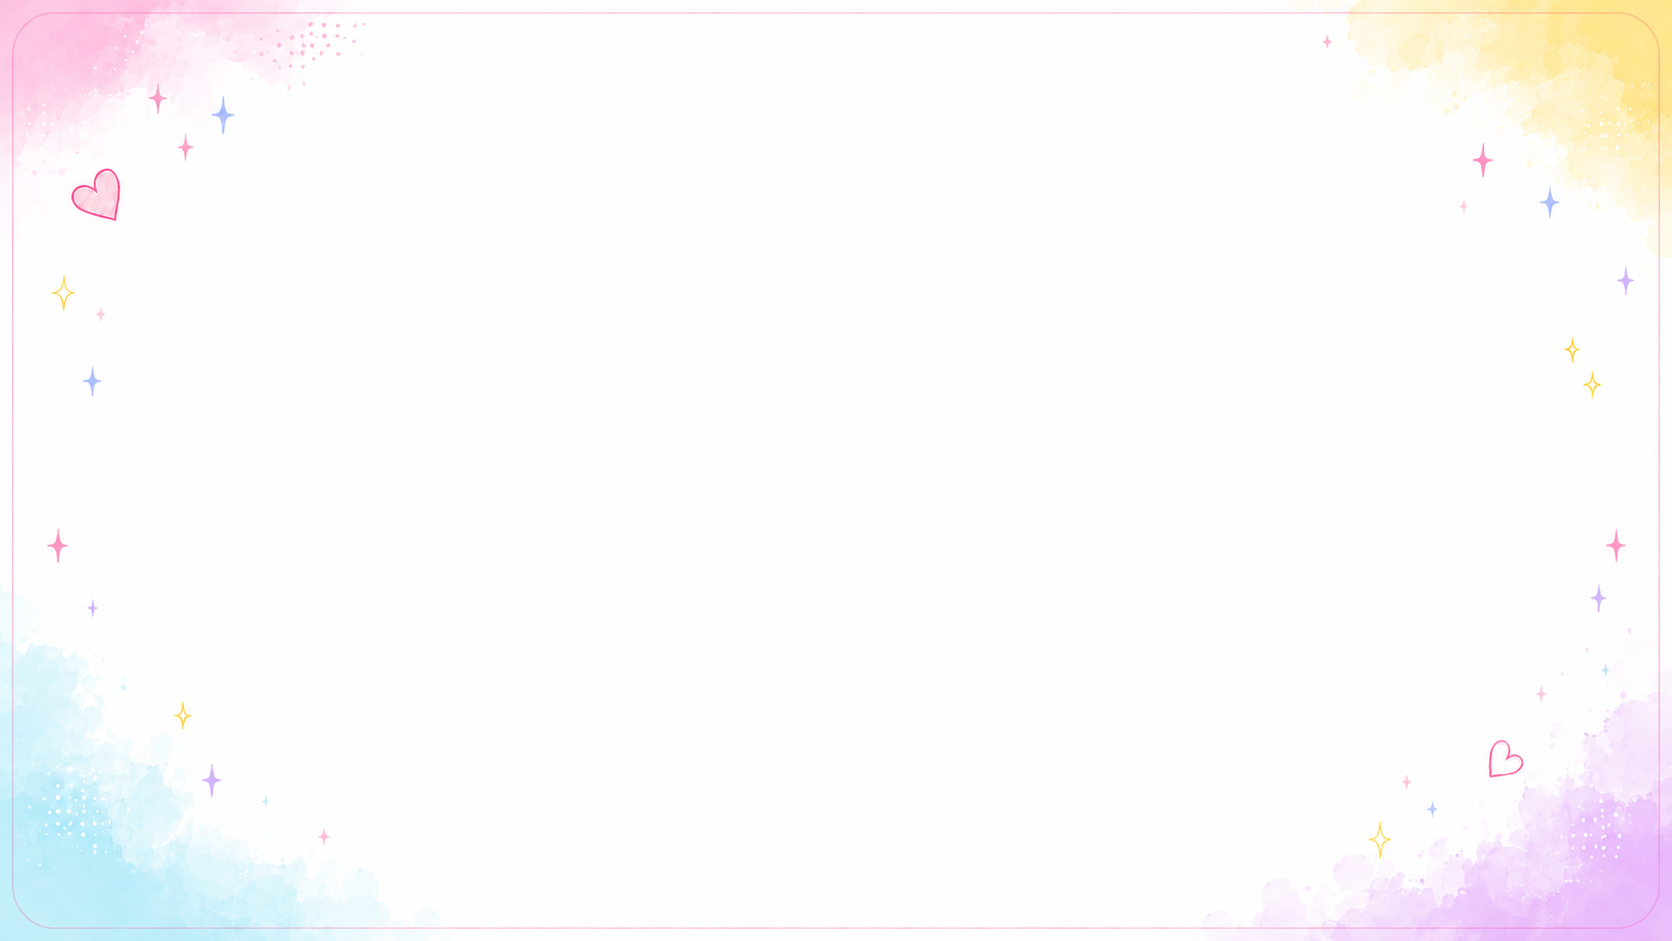
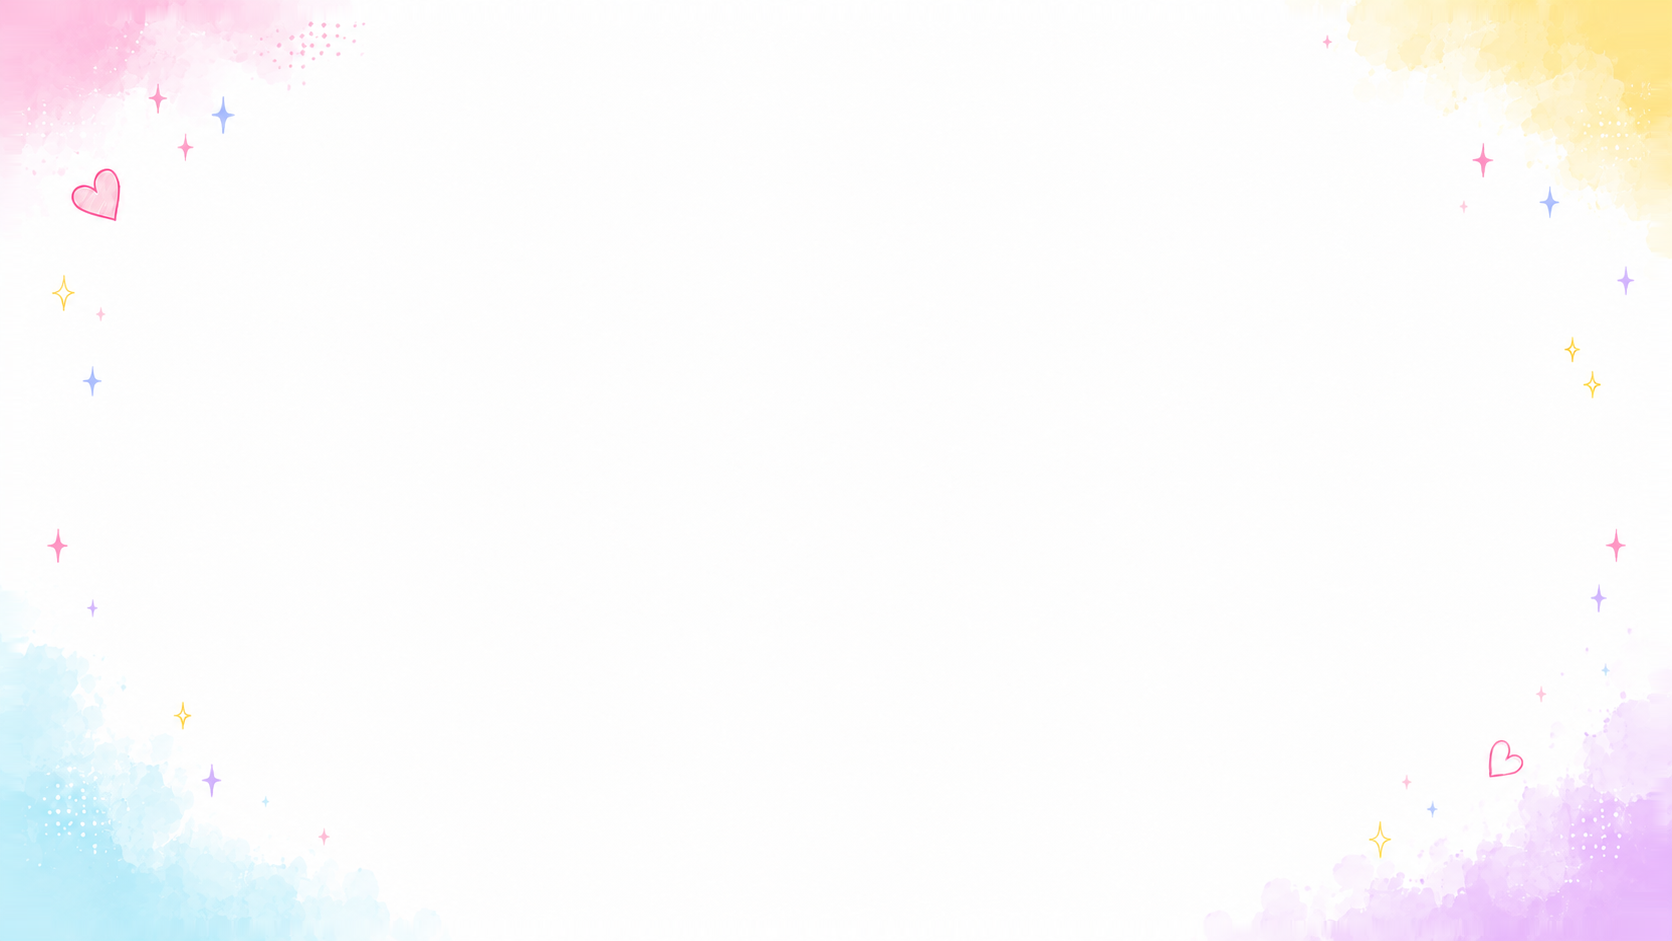
微修正

diff --git a/wp-content/themes/fee/template-parts/section-steps.php b/wp-content/themes/fee/template-parts/section-steps.php
@@ -49,9 +49,10 @@ $u = get_template_directory_uri();
   display: flex; align-items: center; justify-content: center;
   font-weight: 800; font-size: 2.4em; line-height: 1;
   box-shadow: 0 0.2vw 0.5vw rgba(160,110,130,0.28); }
-/* アイコンは細い円のリングの中に置く。素材ごとの余白差は --sw/--tx/--ty で吸収 */
+/* アイコン素材(flow*.png)自体に細い円が描かれているので、CSS側でリングは引かない
+   （引くと二重丸になる）。--icsz が素材の円の直径になるよう --sw/--tx/--ty を調整済み */
 .hj-ring { display: block; position: relative; width: 10.6vw; height: 10.6vw; margin: 0 auto;
-  border-radius: 50%; border: 0.1vw solid; --icsz: 7.4vw; }
+  --icsz: 10.6vw; }
 .hj-ring img { position: absolute; left: 50%; top: 50%; height: auto;
   width: calc(var(--icsz) * var(--sw));
   transform: translate(-50%, -50%)
@@ -78,25 +79,21 @@ $u = get_template_directory_uri();
 /* ステップごとの配色 */
 .hj-s1 { border-color: #f4a7c4; }
 .hj-s1 .hj-num { background: #e8397f; }
-.hj-s1 .hj-ring { border-color: #f4a7c4; }
 .hj-s1 .hj-dot { color: #f288b3; }
 .hj-s1 .hj-t span { background: linear-gradient(transparent 58%, #ffeaa0 58% 96%, transparent 96%); }
 .hj-s1 .hj-tx .p { color: #e8397f; }
 .hj-s2 { border-color: #f5c98a; }
 .hj-s2 .hj-num { background: #f0912c; }
-.hj-s2 .hj-ring { border-color: #f5c98a; }
 .hj-s2 .hj-dot { color: #f3b566; }
 .hj-s2 .hj-t span { background: linear-gradient(transparent 58%, #ffeaa0 58% 96%, transparent 96%); }
 .hj-s2 .hj-tx .p { color: #e8397f; }
 .hj-s3 { border-color: #8ed4cc; }
 .hj-s3 .hj-num { background: #2fae9f; }
-.hj-s3 .hj-ring { border-color: #8ed4cc; }
 .hj-s3 .hj-dot { color: #6bc7bd; }
 .hj-s3 .hj-t span { background: linear-gradient(transparent 58%, #b8ecec 58% 96%, transparent 96%); }
 .hj-s3 .hj-tx .p { color: #2fae9f; }
 .hj-s4 { border-color: #c8b2ec; }
 .hj-s4 .hj-num { background: #9270d2; }
-.hj-s4 .hj-ring { border-color: #c8b2ec; }
 .hj-s4 .hj-dot { color: #b195e2; }
 .hj-s4 .hj-t span { background: linear-gradient(transparent 58%, #ffeaa0 58% 96%, transparent 96%); }
 .hj-s4 .hj-tx .p { color: #e8397f; }
@@ -149,7 +146,7 @@ $u = get_template_directory_uri();
     border-left-width: 1.4vw; }
   .hj-num { top: -1.6vw; left: 2.9vw; transform: none; width: 9.1vw; height: 9.1vw; font-size: 2.5em; }
   .hj-ring { grid-row: 1 / 3; align-self: center; width: 19.1vw; height: 19.1vw;
-    border-width: 0.2vw; --icsz: 13.4vw; }
+    --icsz: 19.1vw; }
   .hj-t { margin: 0; text-align: left; font-size: 2.2em; }
   .hj-dot { width: 82%; height: 0.3vw; margin-top: 1.2vw;
     background-size: 1.1vw 0.3vw;
@@ -236,7 +233,7 @@ $u = get_template_directory_uri();
     <div class="hj-first-row">
       <span class="hj-first-script">First Step !</span>
       <span class="hj-first-tx">まずは<span class="p">無料カウンセリング・見学</span>へお越しください。</span>
-      <a class="hj-first-btn" href="https://lin.ee/IdR5PPL" target="_blank" rel="noopener noreferrer">無料カウンセリング・見学を予約する<span class="ar">&#8250;</span></a>
+      <a class="hj-first-btn" href="https://lin.ee/IdR5PPL" target="_blank" rel="noopener noreferrer">無料カウンセリング・見学を予約する</a>
     </div>
     <div class="hj-first-note">※公式<span class="p">LINE</span> 24時間受付中！</div>
   </div>

diff --git a/wp-content/themes/fee/template-parts/section-courses.php b/wp-content/themes/fee/template-parts/section-courses.php
@@ -129,9 +129,8 @@ $u = get_template_directory_uri();
   box-shadow: 0 0.2vw 0.6vw rgba(200,150,170,.28); }
 .co-up .u { background: linear-gradient(transparent 78%, #ffd166 78% 96%, transparent 96%); }
 
-.co-buy { position: relative; margin-top: auto; padding-top: 1.4vw;
-  border-top: 0.1vw solid #ece5e2; }
-.co-buy::before { content: ""; position: absolute; left: -2.4vw; top: 0; bottom: -1vw;
+.co-buy { position: relative; margin-top: auto; padding-top: 1.4vw; }
+.co-buy::before { content: ""; position: absolute; left: -1vw; top: 0; bottom: -1vw;
   width: 0.1vw; background: #ece5e2; }
 .co-price { text-align: center; font-family: var(--font-en); font-weight: 600; font-size: 2.8em;
   letter-spacing: .01em; white-space: nowrap; line-height: 1.2; }
@@ -159,7 +158,7 @@ $u = get_template_directory_uri();
     background-image: url('<?php echo $u; ?>/assets/images/corse_bg_sp.png'); }
   .co-head { padding-top: 3vw; min-height: 35vw; }
   .co-head-l { left: 0; top: 0; width: 24.6vw; height: 33.8vw; --base: 24.6vw; }
-  .co-head-r { right: 0; top: 0; width: 27vw; height: 27.4vw; --base: 27vw; }
+  .co-head-r { right: 0; top: 0; width: 24.6vw; height: 33.8vw; --base: 24.6vw; }
   .co-pic { height: 35.9vw; border-radius: 1.8vw; }
   .co-script { font-size: 2.55em; }
   .co-title { font-size: 3.24em; }
@@ -198,7 +197,7 @@ $u = get_template_directory_uri();
   .co-no1 { right: -0.5vw; bottom: -4.4vw; font-size: 2.1em; }
   .co-up { right: -1vw; top: -1.6vw; font-size: 1.3em; padding: 1vw 1.6vw; border-radius: 1.2vw; }
   .co-buy { padding-top: 2.6vw; }
-  .co-buy::before { left: -3.4vw; bottom: -2vw; }
+  .co-buy::before { left: -2vw; bottom: -2vw; }
   .co-price { font-size: 2.9em; }
   .co-cta { height: 6.2vw; margin-top: 2.2vw; font-size: 1.25em; }
 

diff --git a/wp-content/themes/fee/template-parts/section-art.php b/wp-content/themes/fee/template-parts/section-art.php
@@ -25,9 +25,11 @@ section.ar * { box-sizing: border-box; }
 
 /* --- 作品グリッド（均等セル・写真は外観>カスタマイズで差し替え可能） ---
    行の高さを grid-auto-rows で固定し、画像は height:100% + object-fit:cover で埋める。
-   こうしておくとカスタマイザーで縦横比の違う写真に差し替えても高さが揃う。 */
+   こうしておくとカスタマイザーで縦横比の違う写真に差し替えても高さが揃う。
+   セルの縦横比は同梱写真 art-*.webp（305×190）に合わせた 1.605。写真はチップ上端が
+   どれも上から約10%の位置に来るよう下の余白を切り詰めてあるので、拡大せずに揃う。 */
 .ar-grid { position: relative; z-index: 1; display: grid; grid-template-columns: repeat(4, 20.5vw);
-  grid-auto-rows: 15.65vw; justify-content: center; gap: 1.5vw 1.8vw; margin-top: 1.6vw; }
+  grid-auto-rows: 12.77vw; justify-content: center; gap: 1.5vw 1.8vw; margin-top: 1.6vw; }
 .ar-grid img { display: block; width: 100%; height: 100%; object-fit: cover; }
 
 /* --- フッター --- */
@@ -43,7 +45,7 @@ section.ar * { box-sizing: border-box; }
   .ar-title { font-size: 2.9em; }
   .ar-sub { font-size: 1.45em; padding: 0 4vw; }
   /* デザイン準拠: SPは3列グリッド */
-  .ar-grid { grid-template-columns: repeat(3, 28.5vw); grid-auto-rows: 21.77vw;
+  .ar-grid { grid-template-columns: repeat(3, 28.5vw); grid-auto-rows: 17.75vw;
     gap: 2vw; margin-top: 3.5vw; }
   .ar-foot { font-size: 1.5em; margin-top: 4vw; }
 }

diff --git a/wp-content/themes/fee/template-parts/section-fv.php b/wp-content/themes/fee/template-parts/section-fv.php
@@ -112,7 +112,7 @@ $u = get_template_directory_uri();
     background-image: url('<?php echo $u; ?>/assets/images/FV_bg_sp.png'); }
   /* 写真（SPはPCより大きく、ネイルは右上いっぱい・ジェルは左下・チャートは右下） */
   /* SPも支給デザインSP版に合わせる（右端は画面外へ見切れる） */
-  .fv-hero { left: 40vw; top: 10vw; width: 90.2vw; }
+  .fv-hero { left: 40vw; width: 90.2vw; }
   .fv-powder { left: -12vw; top: 65vw; width: 57vw; }
   .fv-color { left: 55.7vw; top: 81.9vw; width: 55vw; }
   .fv-splash { filter: blur(0.7vw); }
@@ -173,8 +173,8 @@ $u = get_template_directory_uri();
   <div class="fv-btns">
     <a class="btn-pink" href="https://lin.ee/IdR5PPL" target="_blank" rel="noopener noreferrer">
       <span class="btn-ic"><svg viewBox="0 0 24 24" aria-hidden="true" fill="none" stroke="currentColor" stroke-width="2" stroke-linecap="round" stroke-linejoin="round"><rect x="3" y="4.5" width="18" height="16.5" rx="2.5"/><path d="M3 9.5h18M8 2.5v4M16 2.5v4"/></svg></span>
-      無料LINE相談する<span class="btn-arrow">&#8250;</span>
+      無料LINE相談する
     </a>
-    <a class="btn-white" href="#courses">コース詳細を見る<span class="btn-arrow">&#8250;</span></a>
+    <a class="btn-white" href="#courses">コース詳細を見る</a>
   </div>
 </section>

diff --git a/wp-content/themes/fee/template-parts/section-skills.php b/wp-content/themes/fee/template-parts/section-skills.php
@@ -162,7 +162,7 @@ $u = get_template_directory_uri();
      grid-auto-rows:1fr で全カードを最多項目（06）の高さに揃え、写真サイズを統一する */
   .sk-grid { grid-template-columns: 1fr; grid-auto-rows: 1fr; gap: 3vw;
     max-width: 92vw; margin-top: 3vw; }
-  .sk-card { grid-template-columns: 15vw minmax(0, 1fr) 30vw; column-gap: 1.6vw;
+  .sk-card { grid-template-columns: 15vw minmax(0, 1fr) 30vw; column-gap: 5vw;
     padding: 5.5vw 2vw 2.5vw 2.5vw; min-height: 0; border-radius: 2vw; }
   .sk-num { top: 1.2vw; left: 2vw; width: 9vw; height: 9vw; font-size: 2.2em; }
   .sk-t { font-size: 2.1em; }

diff --git a/wp-content/themes/fee/template-parts/section-campaign.php b/wp-content/themes/fee/template-parts/section-campaign.php
@@ -133,7 +133,7 @@ $u = get_template_directory_uri();
     <!-- CTA -->
     <a class="cp-cta" href="https://lin.ee/IdR5PPL" target="_blank" rel="noopener noreferrer" aria-label="無料相談はこちらから">
       <span class="sp1"></span><span class="sp2"></span>
-      <span class="t1">無料相談</span><span class="t2">はこちらから！</span><span class="ar">&#8250;</span>
+      <span class="t1">無料相談</span><span class="t2">はこちらから！</span>
     </a>
   </div>
 </section>

diff --git a/wp-content/themes/fee/template-parts/section-future.php b/wp-content/themes/fee/template-parts/section-future.php
@@ -78,7 +78,7 @@ $u = get_template_directory_uri();
     grid-template-columns: 42vw 1fr; }
   .fu-c2 { grid-template-areas: "title photo" "body photo" "sign photo";
     grid-template-columns: 1fr 42vw; }
-  .fu-photo img { border-radius: 1.8vw; }
+  .fu-photo img { border-radius: 1.8vw; aspect-ratio: 1/1;}
   /* タイトルの折返しを許可してカード外へのはみ出しを防ぐ */
   .fu-t { font-size: 1.9em; white-space: normal; }
   .fu-body { font-size: 1.4em; line-height: 1.9; }
